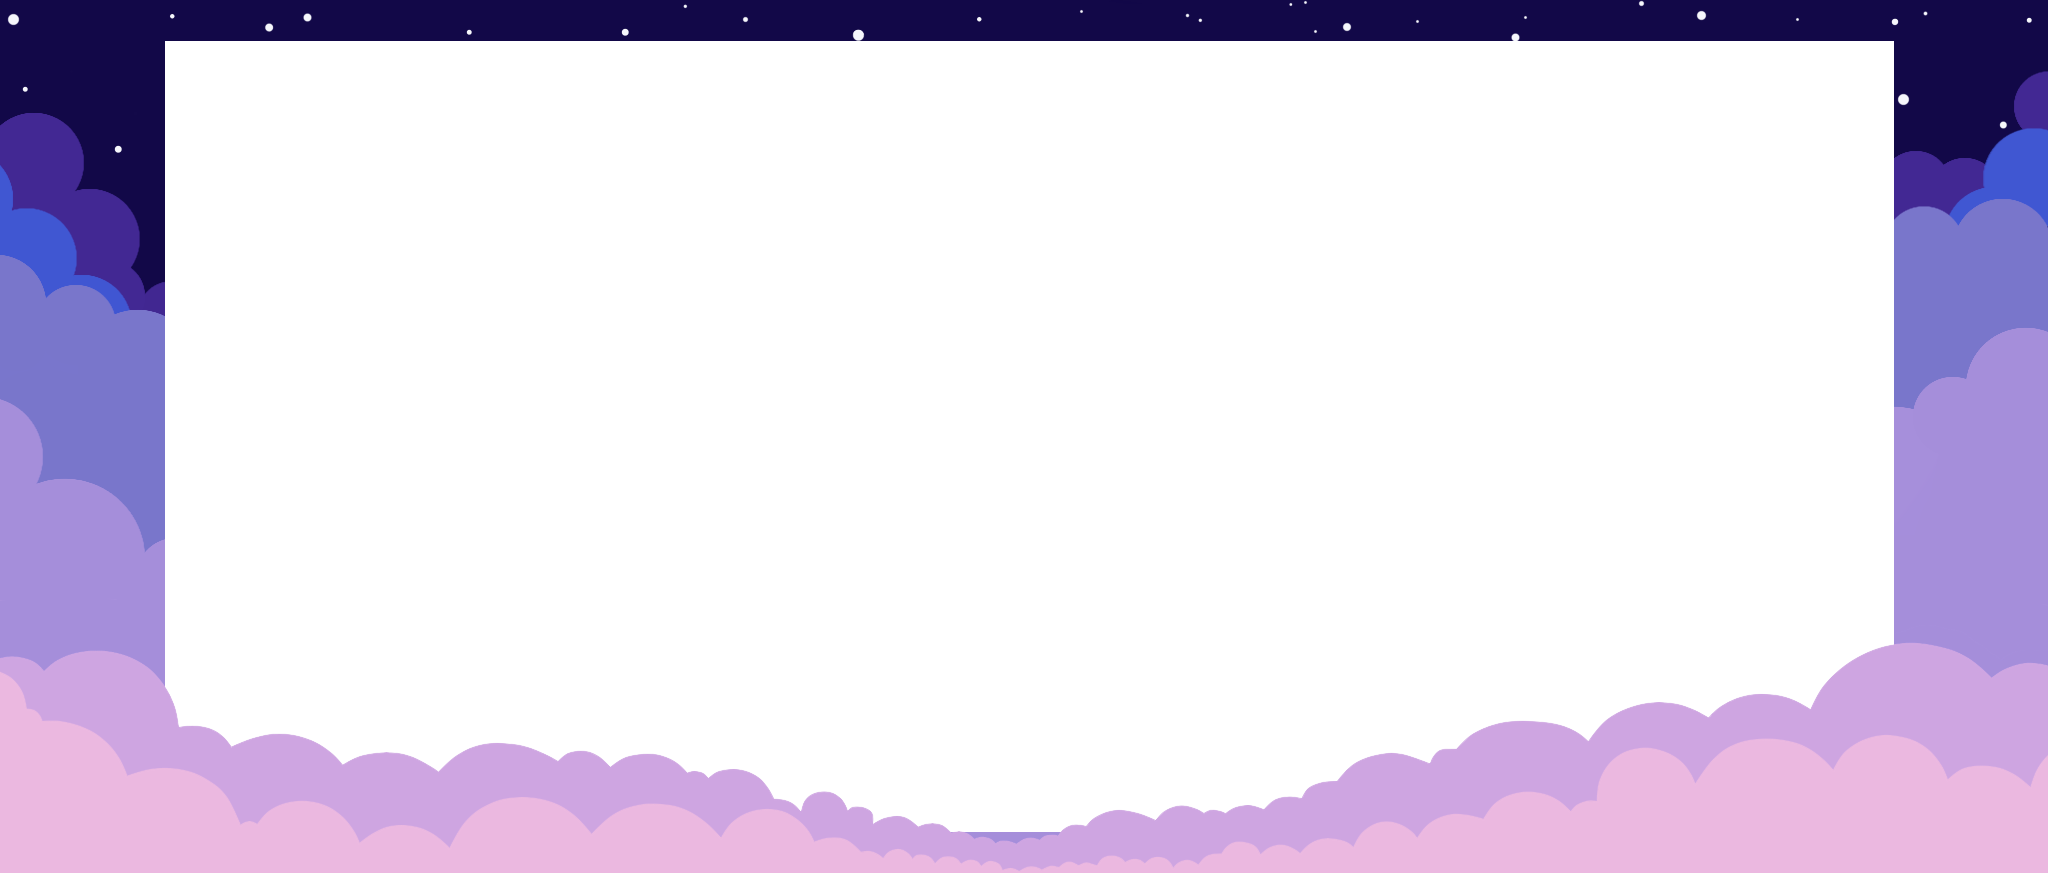
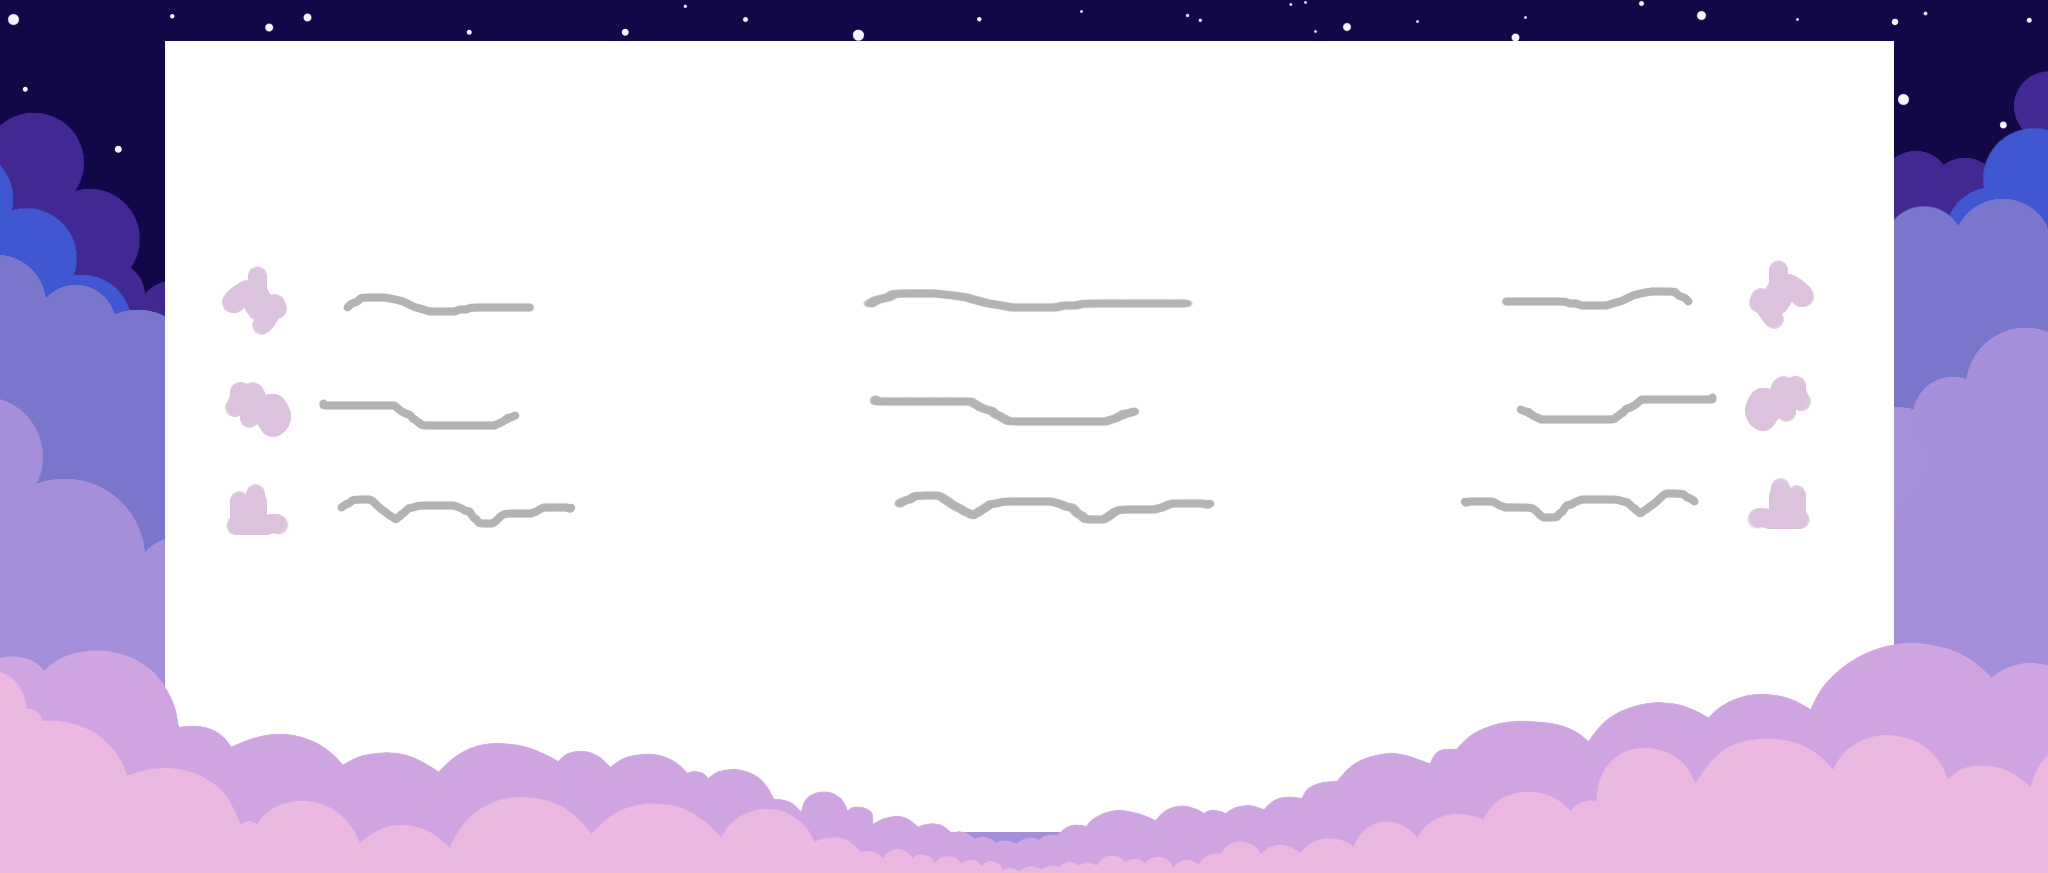
Dodavanje popisa aktivnosti na ekranu za Trening

diff --git a/MathTVZApp/CSS/Trening.css b/MathTVZApp/CSS/Trening.css
@@ -12,3 +12,81 @@
     position: absolute;
     overflow: hidden;
 }
+#naslovKvizovi {
+    position: absolute;
+    font-family: 'Trebuchet MS', 'Lucida Sans Unicode', 'Lucida Grande', 'Lucida Sans', Arial, sans-serif;
+    font-weight: bold;
+    font-size: 300%;
+    width: 300px;
+    margin-top: -580px;
+    margin-left: 240px;
+    color: rgb(165, 142, 218);
+}
+#naslovZadaci {
+    position: absolute;
+    font-family: 'Trebuchet MS', 'Lucida Sans Unicode', 'Lucida Grande', 'Lucida Sans', Arial, sans-serif;
+    font-weight: bold;
+    font-size: 300%;
+    width: 300px;
+    margin-top: -580px;
+    margin-left: 690px;
+    color: rgb(165, 142, 218);
+}
+#naslovPripreme {
+    position: absolute;
+    font-family: 'Trebuchet MS', 'Lucida Sans Unicode', 'Lucida Grande', 'Lucida Sans', Arial, sans-serif;
+    font-weight: bold;
+    font-size: 300%;
+    width: 300px;
+    margin-top: -580px;
+    margin-left: 1100px;
+    color: rgb(165, 142, 218);
+}
+.btnZadaci {
+    padding: 0;
+    overflow: hidden;
+    width: 160px;
+    height: 50px;
+    position: absolute;
+    margin-top: -190px;
+    margin-left: 685px;
+    border-radius: 20px;
+    border: none;
+    background-color: rgb(236, 113, 129);
+    color: white;
+    text-transform: uppercase;
+    font-family: 'Trebuchet MS', 'Lucida Sans Unicode', 'Lucida Grande', 'Lucida Sans', Arial, sans-serif;
+    font-size: 120%;
+}
+.btnKvizovi {
+    padding: 0;
+    overflow: hidden;
+    width: 160px;
+    height: 50px;
+    position: absolute;
+    margin-top: -190px;
+    margin-left: 245px;
+    border-radius: 20px;
+    border: none;
+    background-color: rgb(236, 113, 129);
+    color: white;
+    text-transform: uppercase;
+    font-family: 'Trebuchet MS', 'Lucida Sans Unicode', 'Lucida Grande', 'Lucida Sans', Arial, sans-serif;
+    font-size: 120%;
+}
+.btnPripreme {
+    padding: 0;
+    overflow: hidden;
+    width: 160px;
+    height: 50px;
+    position: absolute;
+    margin-top: -190px;
+    margin-left: 1130px;
+    border-radius: 20px;
+    border: none;
+    background-color: rgb(236, 113, 129);
+    color: white;
+    text-transform: uppercase;
+    font-family: 'Trebuchet MS', 'Lucida Sans Unicode', 'Lucida Grande', 'Lucida Sans', Arial, sans-serif;
+    font-size: 120%;
+}

diff --git a/MathTVZApp/Ekrani/Trening.aspx.designer.cs b/MathTVZApp/Ekrani/Trening.aspx.designer.cs
@@ -38,5 +38,32 @@ namespace MathTVZApp.Ekrani {
         /// To modify move field declaration from designer file to code-behind file.
         /// </remarks>
         protected global::System.Web.UI.HtmlControls.HtmlImage imgPozadinskaSlikaTrening;
+        
+        /// <summary>
+        /// btnKvizovi control.
+        /// </summary>
+        /// <remarks>
+        /// Auto-generated field.
+        /// To modify move field declaration from designer file to code-behind file.
+        /// </remarks>
+        protected global::System.Web.UI.WebControls.Button btnKvizovi;
+        
+        /// <summary>
+        /// btnZadaci control.
+        /// </summary>
+        /// <remarks>
+        /// Auto-generated field.
+        /// To modify move field declaration from designer file to code-behind file.
+        /// </remarks>
+        protected global::System.Web.UI.WebControls.Button btnZadaci;
+        
+        /// <summary>
+        /// btnPripreme control.
+        /// </summary>
+        /// <remarks>
+        /// Auto-generated field.
+        /// To modify move field declaration from designer file to code-behind file.
+        /// </remarks>
+        protected global::System.Web.UI.WebControls.Button btnPripreme;
     }
 }
